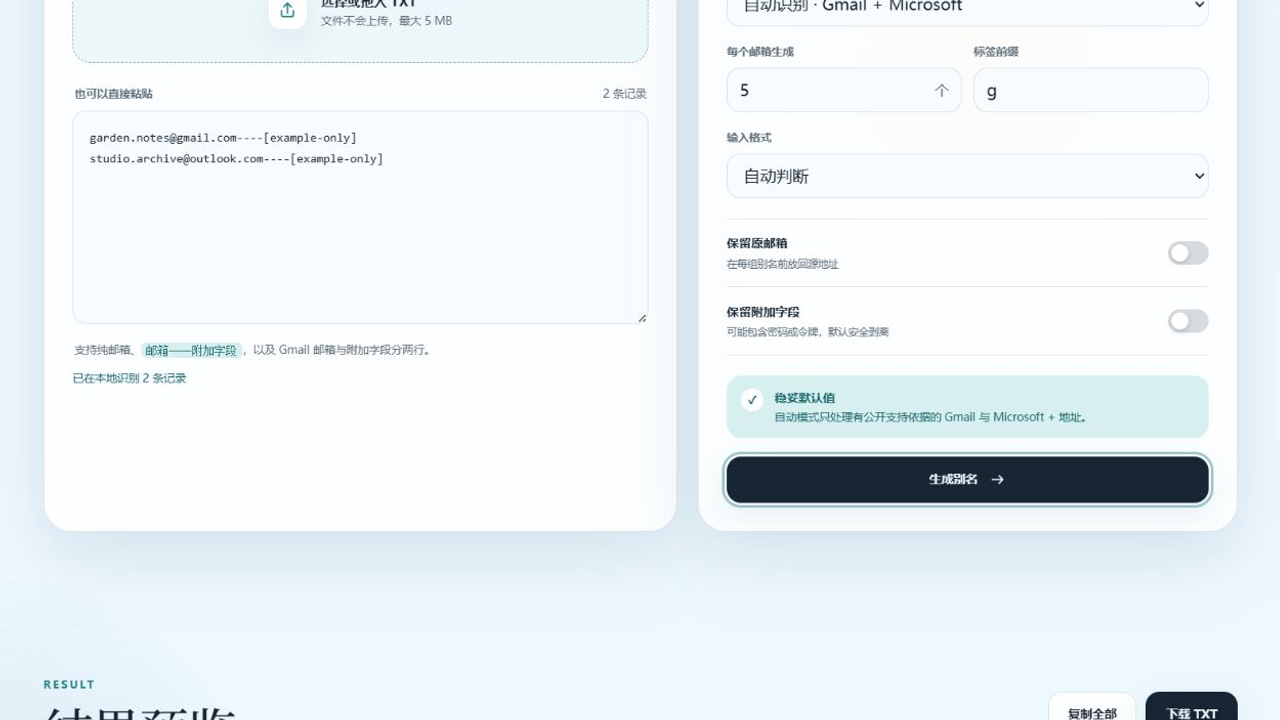
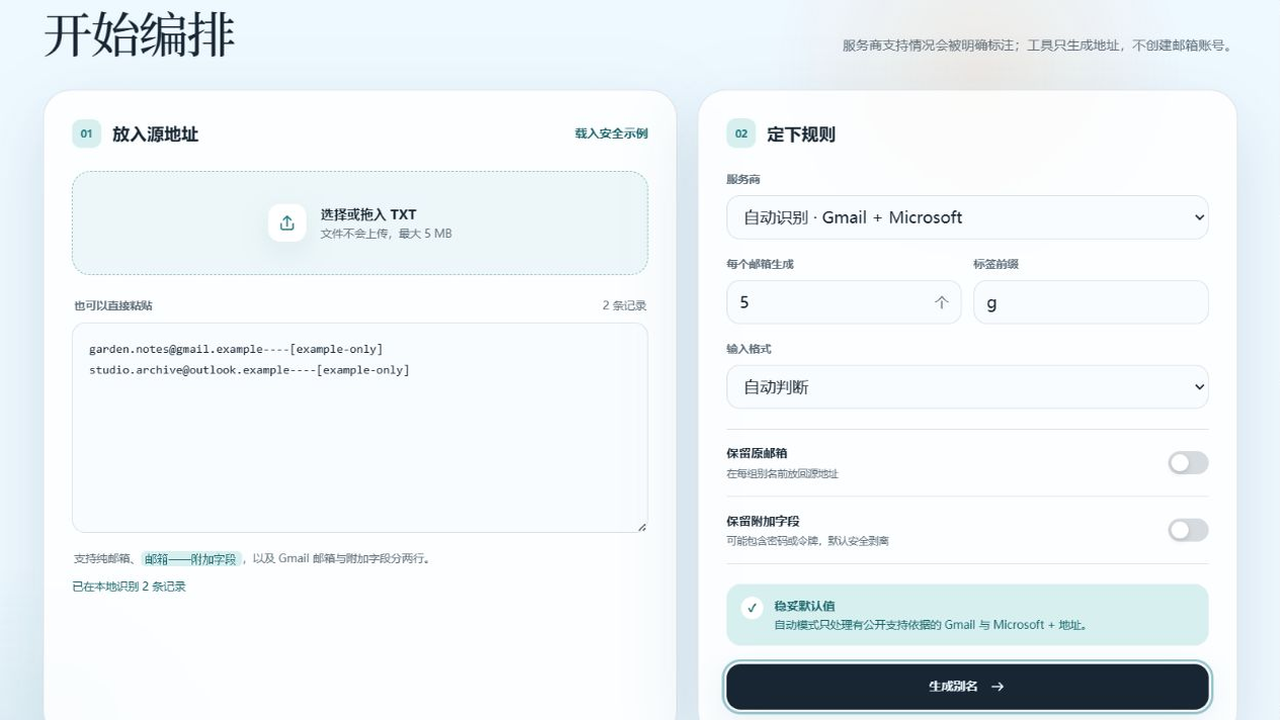
fix: reserve all public examples and refresh previews

diff --git a/tests/alias-core.test.js b/tests/alias-core.test.js
@@ -5,19 +5,19 @@ const assert = require("node:assert/strict");
 const core = require("../assets/alias-core.js");
 
 test("parses single-line records and preserves opaque metadata", () => {
-  const result = core.parseInput("artist@gmail.com----[example-only]----client-demo", { format: "single" });
+  const result = core.parseInput("artist@gmail.example----[example-only]----client-demo", { format: "single" });
   assert.equal(result.records.length, 1);
   assert.equal(result.records[0].metadata, "[example-only]----client-demo");
 });
 
 test("pairs Gmail two-line records in automatic mode", () => {
-  const result = core.parseInput("artist@gmail.com\n[example-only]\n", { format: "auto" });
+  const result = core.parseInput("artist@gmail.example\n[example-only]\n", { format: "auto" });
   assert.equal(result.records.length, 1);
   assert.equal(result.records[0].metadata, "[example-only]");
 });
 
 test("does not pair Microsoft records implicitly", () => {
-  const result = core.parseInput("artist@outlook.com\nnot-an-account\n", { format: "auto" });
+  const result = core.parseInput("artist@outlook.example\nnot-an-account\n", { format: "auto" });
   assert.equal(result.records.length, 1);
   assert.equal(result.records[0].metadata, "");
   assert.equal(result.ignored, 1);
@@ -25,20 +25,20 @@ test("does not pair Microsoft records implicitly", () => {
 
 test("auto mode generates only documented Gmail and Microsoft profiles", () => {
   const input = core.parseInput([
-    "first@gmail.com",
-    "second@outlook.com",
-    "third@icloud.com",
+    "first@gmail.example",
+    "second@outlook.example",
+    "third@icloud.example",
     "fourth@example.test"
   ].join("\n"), { format: "single" });
   const result = core.generate(input.records, { provider: "auto", count: 2, prefix: "note" });
   assert.equal(result.stats.generated, 4);
   assert.equal(result.stats.skipped, 2);
-  assert.match(result.text, /first\+note1@gmail\.com/);
+  assert.match(result.text, /first\+note1@gmail\.example/);
   assert.doesNotMatch(result.text, /third\+/);
 });
 
 test("metadata is omitted by default and masked in previews when retained", () => {
-  const records = core.parseInput("artist@gmail.com----[private-value]", { format: "single" }).records;
+  const records = core.parseInput("artist@gmail.example----[private-value]", { format: "single" }).records;
   const safe = core.generate(records, { provider: "gmail", count: 1, prefix: "g" });
   assert.doesNotMatch(safe.text, /private-value/);
   const retained = core.generate(records, {
@@ -49,23 +49,23 @@ test("metadata is omitted by default and masked in previews when retained", () =
 });
 
 test("paired output keeps metadata on the following line", () => {
-  const records = core.parseInput("artist@gmail.com\n[example-only]", { format: "paired" }).records;
+  const records = core.parseInput("artist@gmail.example\n[example-only]", { format: "paired" }).records;
   const result = core.generate(records, {
     provider: "gmail", count: 1, prefix: "g", keepMetadata: true, outputFormat: "paired"
   });
-  assert.equal(result.text, "artist+g1@gmail.com\n[example-only]\n");
+  assert.equal(result.text, "artist+g1@gmail.example\n[example-only]\n");
   assert.equal(result.outputLines, 2);
 });
 
 test("duplicate aliases are collapsed case-insensitively", () => {
-  const records = core.parseInput("Artist@gmail.com\nartist@gmail.com", { format: "single" }).records;
+  const records = core.parseInput("Artist@gmail.example\nartist@gmail.example", { format: "single" }).records;
   const result = core.generate(records, { provider: "gmail", count: 1, prefix: "g" });
   assert.equal(result.stats.generated, 1);
   assert.equal(result.stats.duplicates, 1);
 });
 
 test("unsafe prefixes and oversized jobs are rejected", () => {
-  const records = core.parseInput("artist@gmail.com", { format: "single" }).records;
+  const records = core.parseInput("artist@gmail.example", { format: "single" }).records;
   assert.throws(() => core.generate(records, { count: 1, prefix: "bad tag" }), /标签前缀/);
   assert.throws(
     () => core.generate(Array(5).fill(records[0]), { count: 50000, prefix: "g" }),

diff --git a/index.html b/index.html
@@ -59,7 +59,7 @@
         <div class="orbit orbit-b"></div>
         <div class="letter letter-main">
           <span class="letter-index">MAIN</span>
-          <strong>you<span>@</span>mail.com</strong>
+          <strong>you<span>@</span>example.test</strong>
           <small>一处收件，清晰归档</small>
         </div>
         <div class="letter letter-one"><span>+</span>notes</div>
@@ -93,7 +93,7 @@
             <label class="field-label" for="source-input">也可以直接粘贴</label>
             <span class="live-count" id="source-count">0 条记录</span>
           </div>
-          <textarea id="source-input" spellcheck="false" autocomplete="off" placeholder="name@gmail.com&#10;name@outlook.com----[附加字段]" aria-describedby="input-help"></textarea>
+          <textarea id="source-input" spellcheck="false" autocomplete="off" placeholder="name@gmail.example&#10;name@outlook.example----[附加字段]" aria-describedby="input-help"></textarea>
           <p class="field-help" id="input-help">支持纯邮箱、<code>邮箱----附加字段</code>，以及 Gmail 邮箱与附加字段分两行。</p>
           <div class="parse-status" id="parse-status" role="status">等待输入</div>
         </section>

diff --git a/assets/alias-core.js b/assets/alias-core.js
@@ -9,12 +9,13 @@
   const MAX_ALIASES = 200000;
   const EMAIL_RE = /^[^\s@]+@[^\s@]+\.[^\s@]+$/;
   const PREFIX_RE = /^[A-Za-z0-9_-]{1,24}$/;
-  const GMAIL_DOMAINS = new Set(["gmail.com", "googlemail.com"]);
-  const ICLOUD_DOMAINS = new Set(["icloud.com", "me.com", "mac.com"]);
+  // *.example variants keep bundled demos and tests inside RFC-reserved space.
+  const GMAIL_DOMAINS = new Set(["gmail.com", "googlemail.com", "gmail.example"]);
+  const ICLOUD_DOMAINS = new Set(["icloud.com", "me.com", "mac.com", "icloud.example"]);
   const MICROSOFT_DOMAINS = new Set([
     "hotmail.com", "outlook.com", "live.com", "msn.com", "windowslive.com",
     "hotmail.co.uk", "hotmail.fr", "hotmail.de", "hotmail.it", "hotmail.es",
-    "hotmail.co.jp", "outlook.co.uk", "outlook.fr", "outlook.de"
+    "hotmail.co.jp", "outlook.co.uk", "outlook.fr", "outlook.de", "outlook.example"
   ]);
 
   function normalizeText(value) {

diff --git a/assets/app.js b/assets/app.js
@@ -204,8 +204,8 @@
   });
   elements.demo.addEventListener("click", () => {
     elements.source.value = [
-      "garden.notes@gmail.com----[example-only]",
-      "studio.archive@outlook.com----[example-only]"
+      "garden.notes@gmail.example----[example-only]",
+      "studio.archive@outlook.example----[example-only]"
     ].join("\n");
     parseSource();
     notify("已载入不含真实身份的安全示例。 ");

diff --git a/README_EN.md b/README_EN.md
@@ -50,7 +50,7 @@ Then open `http://127.0.0.1:8080`. See the [deployment guide](docs/部署说明.
 | Mode | Behavior | Evidence and limit |
 | --- | --- | --- |
 | Auto | Gmail and Microsoft only | Recommended default |
-| Gmail | Builds `name+tag@gmail.com` | [Google's documentation](https://support.google.com/a/users/answer/9282734) says tagged variations arrive in the current inbox |
+| Gmail | Builds `name+tag@gmail.example` (the reserved example domain used in this guide) | [Google's documentation](https://support.google.com/a/users/answer/9282734) says tagged variations arrive in the current inbox |
 | Microsoft | Builds Exchange Online plus addresses | [Microsoft's documentation](https://learn.microsoft.com/exchange/recipients-in-exchange-online/plus-addressing-in-exchange-online) says it is enabled by default, but an organization can disable it |
 | iCloud | Builds candidates only after explicit selection | Apple documents [configured aliases](https://support.apple.com/guide/icloud/mm6b1a490a/icloud) and [Hide My Email](https://support.apple.com/guide/icloud/create-and-edit-addresses-mm1a876f7aed/icloud), not dynamic `+tag`; test delivery first |
 | Any domain | Builds candidates | Delivery depends entirely on the provider |

diff --git a/README.md b/README.md
@@ -50,7 +50,7 @@ docker compose up -d --build
 | 模式 | 工具行为 | 依据与边界 |
 | --- | --- | --- |
 | 自动识别 | 只处理 Gmail 与 Microsoft | 推荐默认值 |
-| Gmail | 生成 `name+tag@gmail.com` | [Google 官方说明](https://support.google.com/a/users/answer/9282734)说明标签地址会进入当前收件箱 |
+| Gmail | 生成 `name+tag@gmail.example`（文档中的保留示例域名） | [Google 官方说明](https://support.google.com/a/users/answer/9282734)说明标签地址会进入当前收件箱 |
 | Microsoft | 生成 Exchange Online Plus Addressing | [Microsoft 官方文档](https://learn.microsoft.com/exchange/recipients-in-exchange-online/plus-addressing-in-exchange-online)说明其默认开启，但组织管理员可以关闭 |
 | iCloud | 仅在用户主动选择后生成候选地址 | Apple 官方介绍的是[已创建的 iCloud 别名](https://support.apple.com/guide/icloud/mm6b1a490a/icloud)与 [Hide My Email](https://support.apple.com/guide/icloud/create-and-edit-addresses-mm1a876f7aed/icloud)，没有承诺动态 `+tag`；必须先实测 |
 | 任意域名 | 生成候选地址 | 是否投递完全取决于邮件服务商 |
